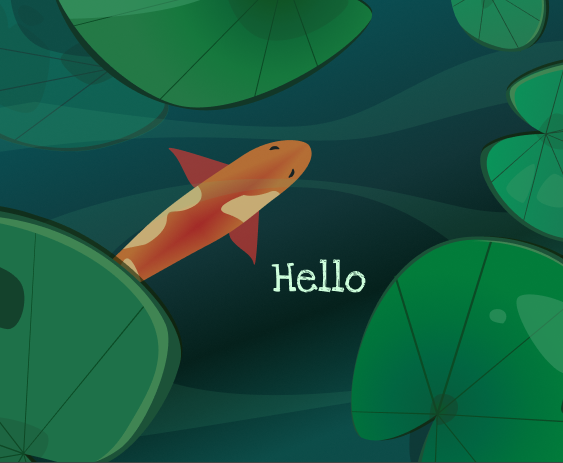
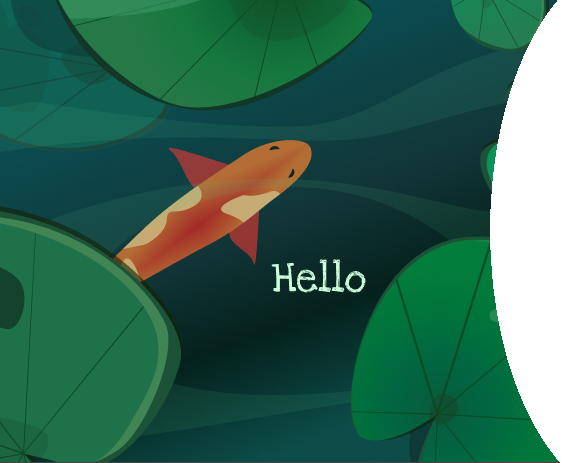
Adjust login page and make footer better

Changed region(s): [[0.8455, 0.0, 1.0, 1.0]]

diff --git a/public/css/style.css b/public/css/style.css
@@ -141,14 +141,14 @@ nav .nav-bar .logo a{
 
 .footer{
     background-color: #333;
-    display: flex;
+    position: relative;
     color: #fff;
     justify-content: center;
     align-items: center;
-    padding: 10px;
+    padding: 10px 10px 10px 0;
     bottom: 0;
     width: 100%;
-    height: 80px;
+    
 }
 
 .contener-fluid {
@@ -284,17 +284,53 @@ ul.dropdown-menu a.dropdown-item-link:hover{
     display: flex;
     justify-content: center;
   }
-  
-.footer {
-    position: fixed; /* Change to relative */
-    bottom: 0; /* Align to the bottom */
-    width: 100%; /* Full width */
-    padding: 5rem 0rem;
+
+.col-7.left-column, .col-5.right-column {
+    padding: 0;
+}
+.login-img {
+    width: 100%;
+}
+
+.col-7.left-column{
+    /* clip-path: ellipse(95% 100% at 0% 50%); */
+    position: relative;
+    z-index: 0;
+}
+
+.col-5.right-column {
+    padding: 2rem 2rem 2rem 0;
+    border-radius: 50%;
+    position: relative;
+    z-index: 1000;
+    max-width: 605px;
     
 }
 
+.form-container {
+    margin-top: 3rem;
+   
+}
 
-/* Mobile Responsiveness */
+.form-group.utilities {
+    display: flex;
+    justify-content: space-evenly;
+}
+
+.form-control.login-element{
+    max-width: 40rem;
+}
+
+.submit-login{
+    display: flex;
+    justify-content: center;
+}
+
+.btn.login-button{
+    color: #fff;
+    background-color: #d75858;
+}
+/* Mobile Responsiveness
 @media (max-width: 992px) {
     .navbar {
         padding: 0.5rem 1rem;
@@ -307,7 +343,7 @@ ul.dropdown-menu a.dropdown-item-link:hover{
     .btn-outline-success {
         margin-top: 1rem;
     }
-}
+} */
 
 
 
